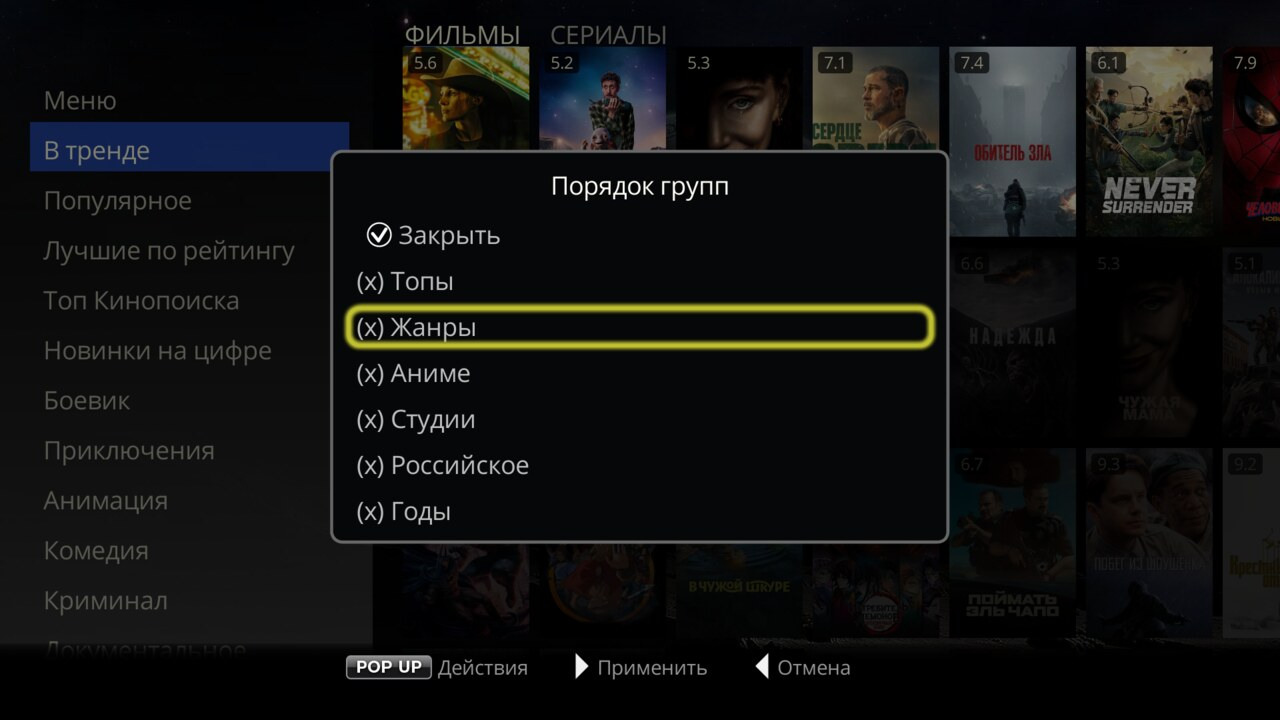
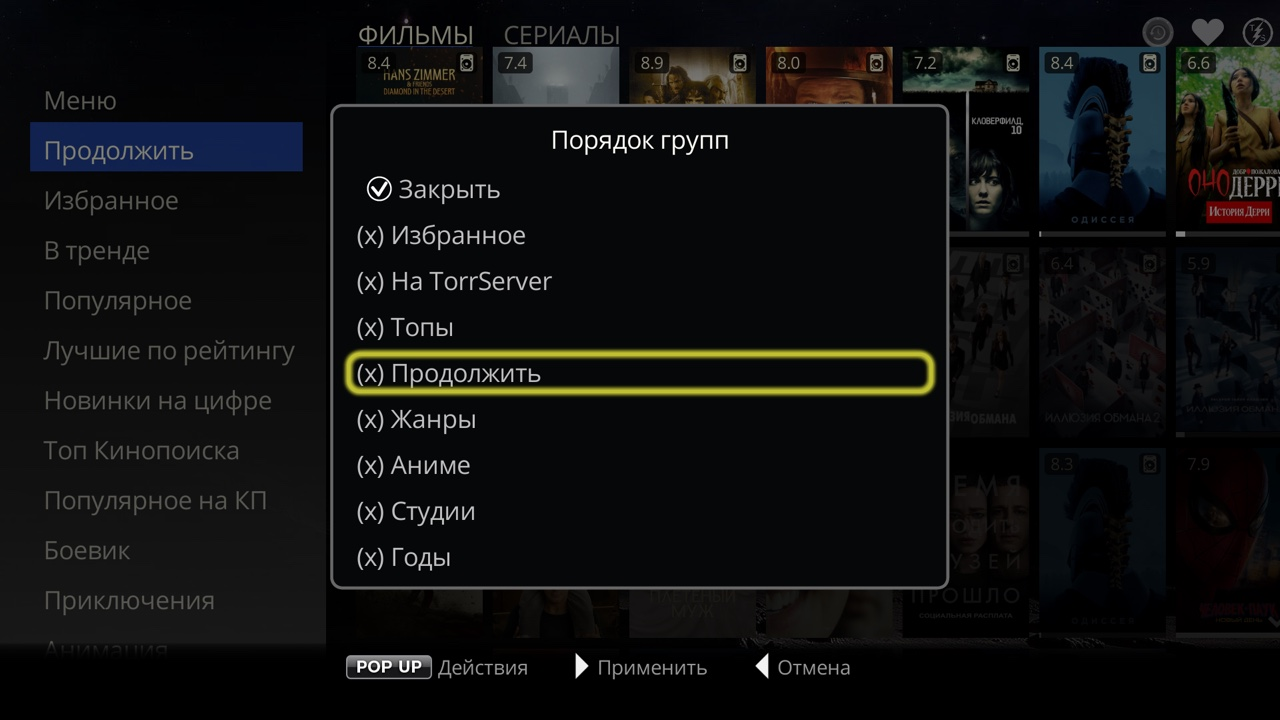
docs: add On TorrServer row screenshots, refresh group order move frame

diff --git a/docs/torrserver.md b/docs/torrserver.md
@@ -54,11 +54,11 @@
 
 1. Включите ряд: отметьте «На TorrServer» в «Порядке групп» на Дюне или в «Рядах каталога» с телефона ([Свои ряды каталога](catalog-rows.md)). Он встанет после «Избранного» сразу или при следующем открытии каталога.
 
-   <!-- кадр: «Порядок групп», фокус на «На TorrServer» с (x) -->
+   <img src="../screenshots/ts-row-order.jpg" alt="«Порядок групп»: фокус на «(x) На TorrServer», ряд включён" width="100%">
 
 2. Нажмите **ENTER** на плитке: фильм включится, у пака откроется список файлов, как в разделе «На TorrServer». Раздачи, которые запускал Melange, показаны постером с рейтингом, в панели — «На TorrServer», число файлов, размер и дата. Остальные — названием раздачи.
 
-   <!-- кадр: каталог, ряд «На TorrServer», фокус на плитке с постером, в панели строка «На TorrServer · …» -->
+   <img src="../screenshots/ts-row-catalog.jpg" alt="Ряд «На TorrServer» в каталоге: фокус на «Гладиаторе», в панели «На TorrServer · 1 файл · 76.8 ГБ · добавлено 19 ноября»" width="100%">
 
 3. Чтобы удалить раздачу, нажмите **POP UP** на плитке и выберите «Удалить с TorrServer». **ENTER** на названии ряда открывает весь раздел.
 

diff --git a/docs/torrserver.en.md b/docs/torrserver.en.md
@@ -54,11 +54,11 @@ These torrents can also sit in a catalog row, newest on the left. The row is the
 
 1. Turn the row on: check "On TorrServer" in "Group order" on the Dune or in "Catalog rows" on the phone ([Your own catalog rows](catalog-rows.en.md)). It goes after Favorites, at once or the next time you open the catalog.
 
-   <!-- frame: Group order, focus on On TorrServer with (x) -->
+   <img src="../screenshots/ts-row-order.jpg" alt="Group order: focus on (x) On TorrServer, the row is on" width="100%">
 
 2. Press **ENTER** on a tile: a movie starts, a pack opens its list of files, as in the On TorrServer section. Torrents that Melange started show a poster with a rating, and the panel shows "On TorrServer", the number of files, the size and the date. Others show the torrent name.
 
-   <!-- frame: catalog, On TorrServer row, focus on a tile with a poster, the "On TorrServer · …" line in the panel -->
+   <img src="../screenshots/ts-row-catalog.jpg" alt="On TorrServer row in the catalog: focus on Gladiator, the panel shows On TorrServer · 1 file · 76.8 GB · added November 19" width="100%">
 
 3. To remove a torrent, press **POP UP** on the tile and choose "Remove from TorrServer". **ENTER** on the row name opens the whole section.
 

diff --git a/docs/catalog-rows.md b/docs/catalog-rows.md
@@ -20,7 +20,7 @@
 4. Чтобы переставить группы, откройте «Порядок групп» и переместите группу так же. Если снять с группы (x), уберутся все её ряды.
    В этом же списке «Продолжить», «Избранное» и «На TorrServer»: их тоже можно переставить или скрыть.
 
-   <img src="../screenshots/rows-move.jpg" alt="«Порядок групп»: группа «Жанры» выбрана для перемещения, внизу «Применить» и «Отмена»" width="100%">
+   <img src="../screenshots/rows-move.jpg" alt="«Порядок групп»: «Продолжить» выбран для перемещения, внизу «Применить» и «Отмена»" width="100%">
 
 5. Закройте окно пунктом «Закрыть» вверху списка, и каталог сразу покажет новый набор.
 

diff --git a/docs/catalog-rows.en.md b/docs/catalog-rows.en.md
@@ -20,7 +20,7 @@ Keep the collections you need in the catalog, put them in order and hide the tit
 4. To rearrange the groups, open "Group order" and move a group the same way. Clear the (x) of a group to remove all its rows.
    The same list has Continue Watching, Favorites and On TorrServer: you can move or hide them too.
 
-   <img src="../screenshots/rows-move.jpg" alt="Group order: the Genres group is selected for moving, Apply and Cancel at the bottom" width="100%">
+   <img src="../screenshots/rows-move.jpg" alt="Group order: Continue is selected for moving, Apply and Cancel at the bottom" width="100%">
 
 5. Close the window with "Close" at the top of the list, and the catalog shows the new set at once.
 
